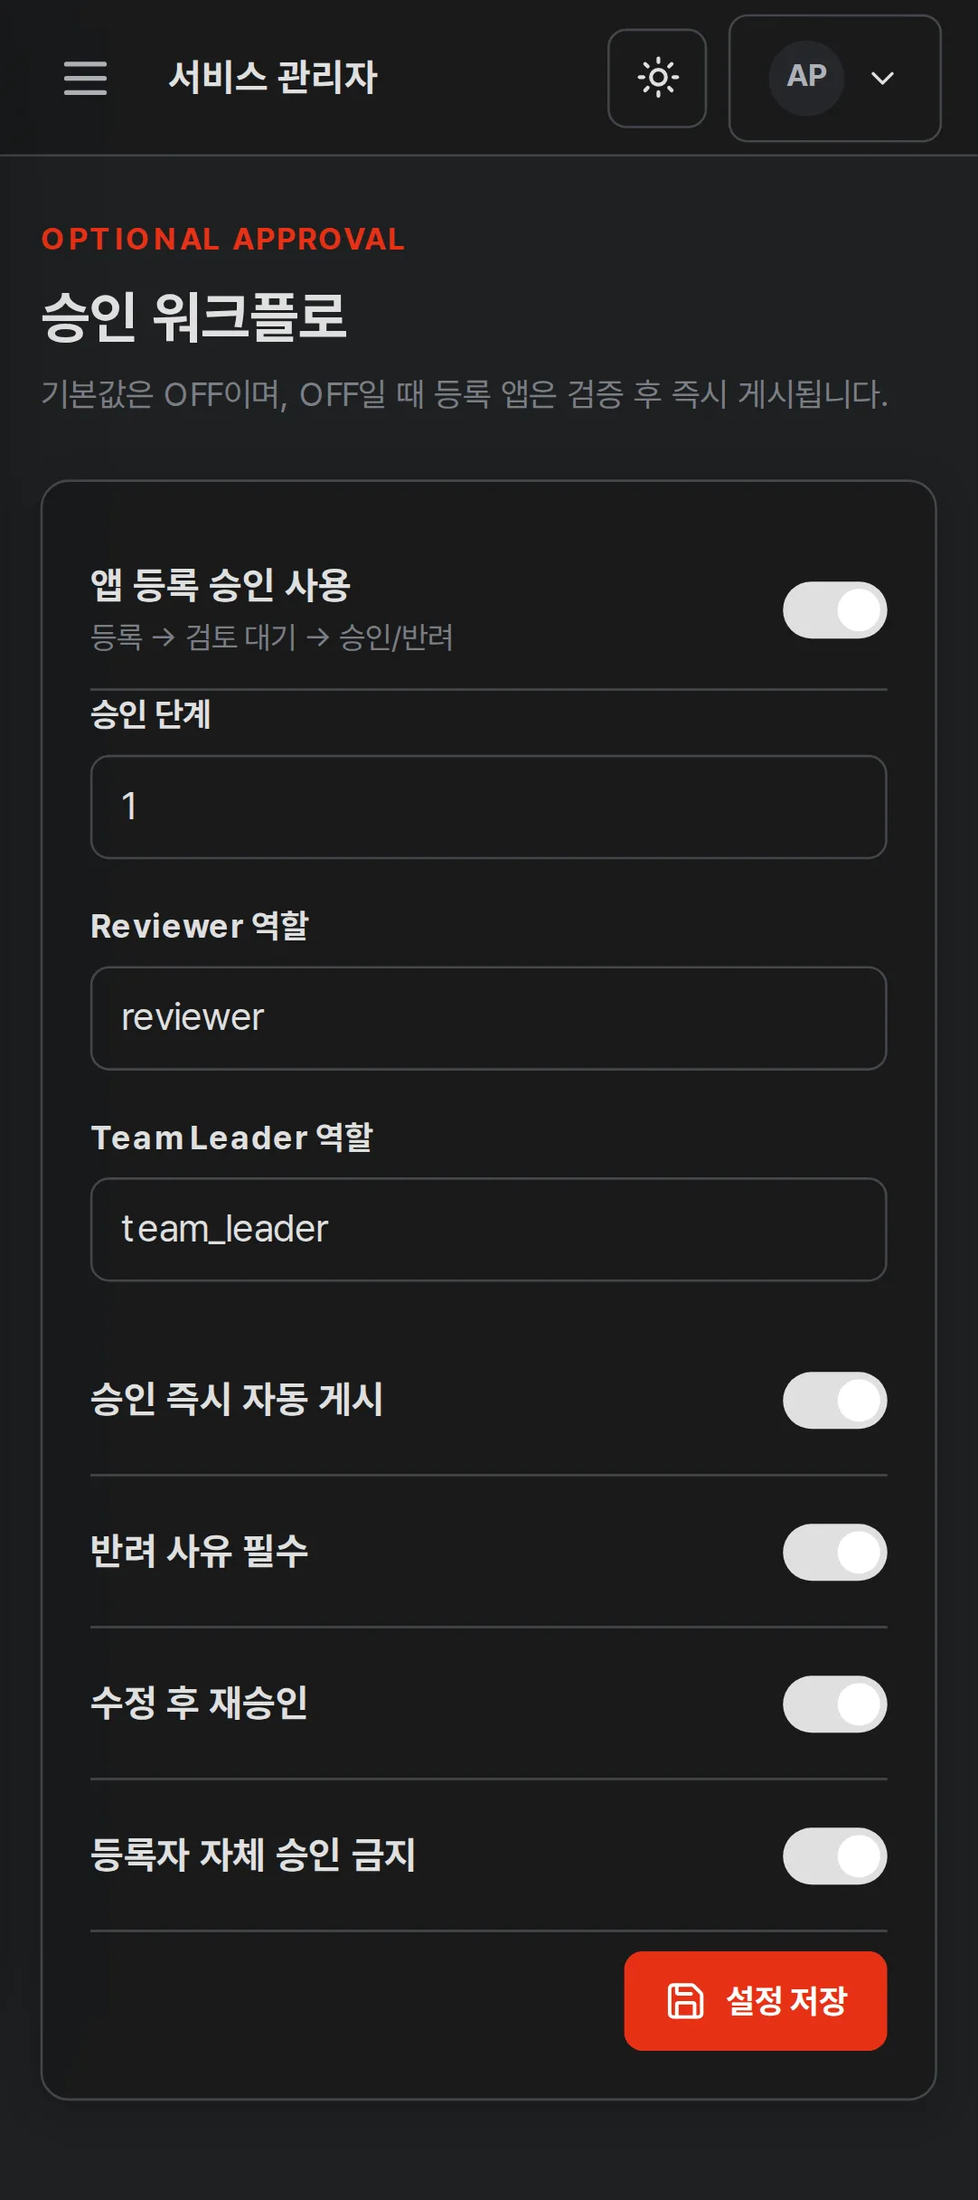
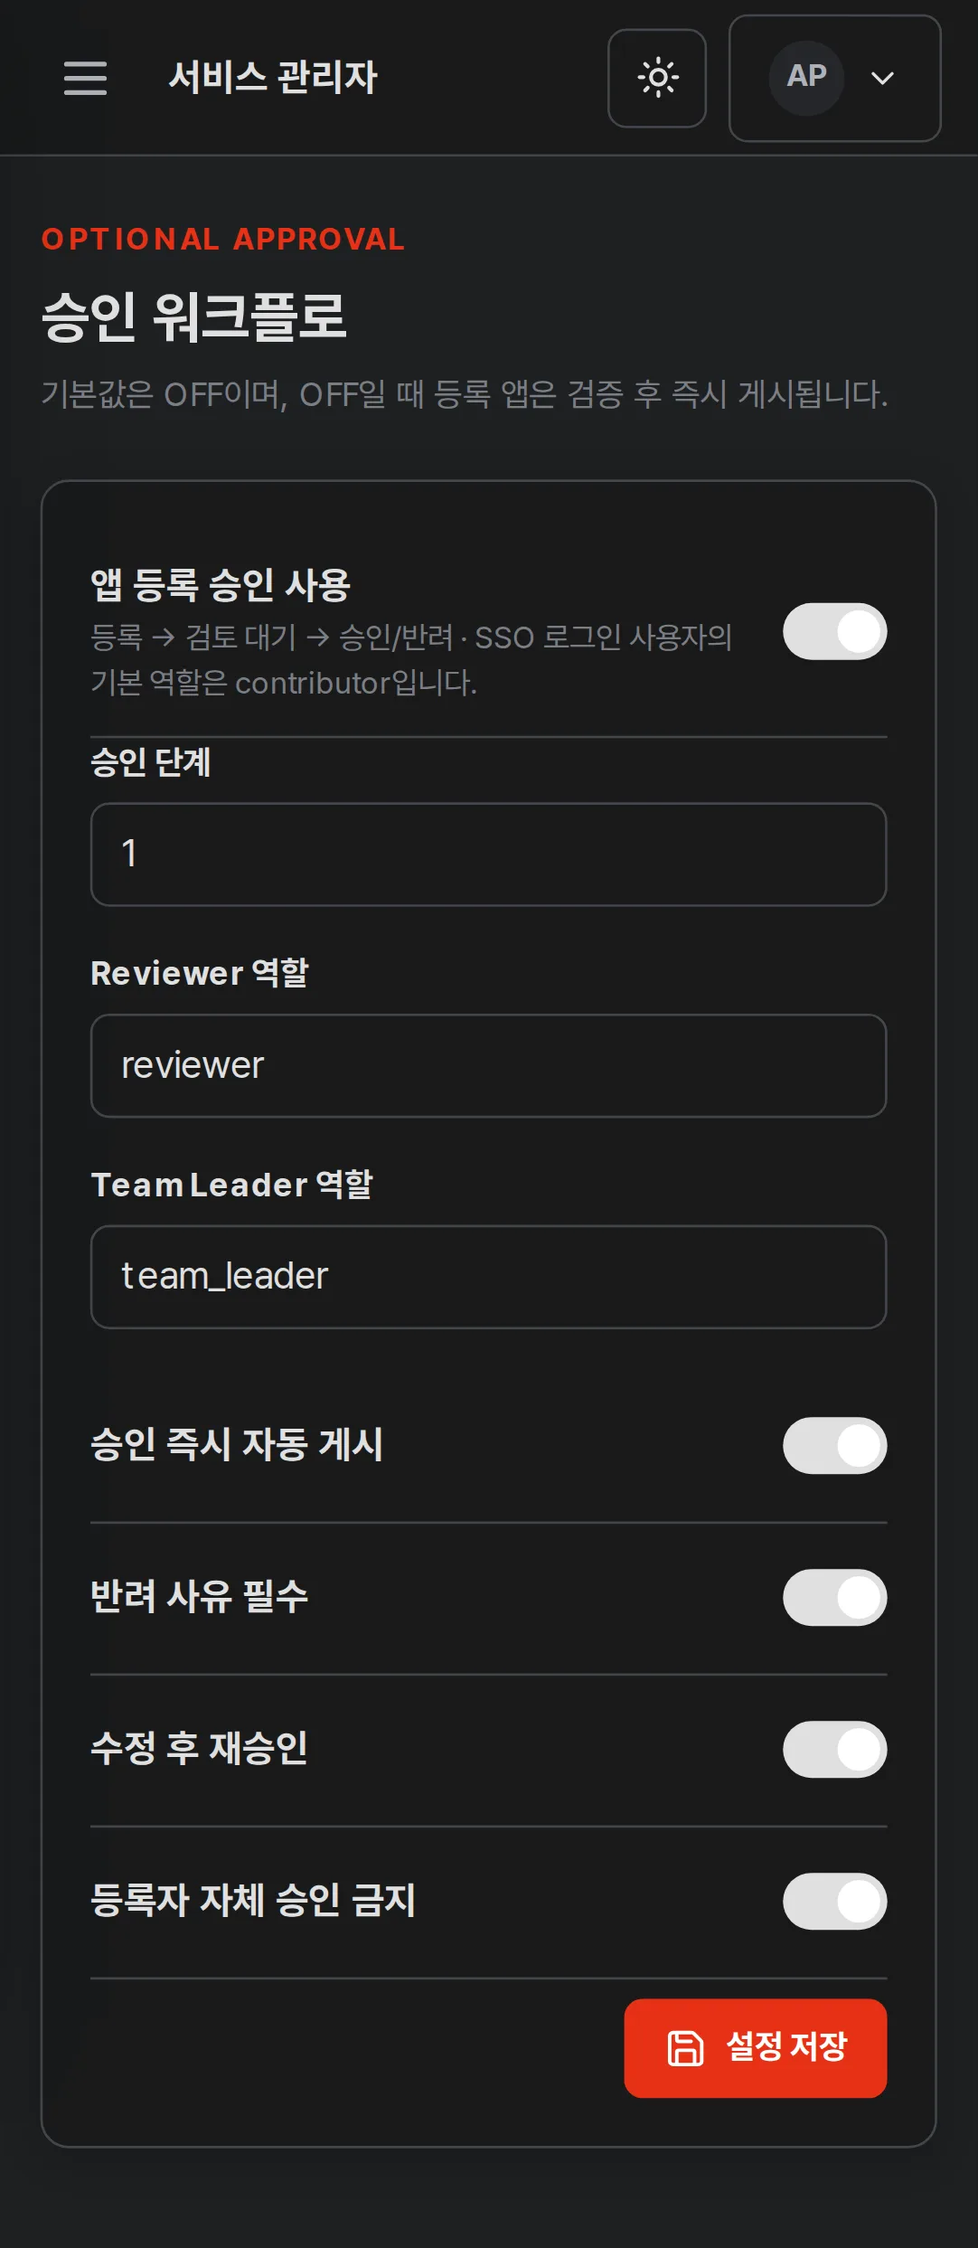
chore(release): AppStore v2.3.1
승인 Workflow가 켜져 있을 때 SSO 사용자 기본 역할을 contributor로 부여하는
patch 릴리스입니다.

Version

web/package.json, package-lock.json, docker-compose.yml, README와 GitHub
Pages 문서의 버전 표기를 v2.3.1로 올렸습니다.

Screenshots

Workflow 설정 화면의 안내 문구가 바뀌어 84개 캡처를 다시 생성하고
manifest의 version과 SHA-256을 갱신했습니다. 라우트 구성은 v2.3.0과 같아
항목 수는 84개 그대로입니다.

검증: go test 전체 패키지, go vet, gofmt, npm test, npm run lint,
prettier check, npm run build, Playwright desktop·mobile 35건,
check-offline-assets.sh, check-env-contract.sh, check-docs.sh 모두
통과했습니다.

diff --git a/docs/guides/release/index.html b/docs/guides/release/index.html
@@ -17,7 +17,7 @@
         <aside class="toc" aria-label="이 페이지 목차"><strong>목차</strong><a href="#contract">명명 계약</a><a href="#gates">릴리스 Gate</a><a href="#screenshots">화면 캡처</a><a href="#local">로컬 검증</a><a href="#tag">커밋·태그</a><a href="#workflow">자동 Workflow</a><a href="#verify">게시 후 검증</a><a href="#pages">Pages</a></aside>
         <article class="guide-content">
           <section id="contract"><h2>1. 불변 명명 계약</h2>
-            <div class="table-wrap"><table><thead><tr><th>항목</th><th>v2.3.0 릴리스</th><th>원천</th></tr></thead><tbody><tr><td>Git tag</td><td><code>v2.3.0</code></td><td>안정 SemVer</td></tr><tr><td>Docker image</td><td><code>appstore:v2.3.0</code></td><td>tag를 그대로 사용, v 재추가 금지</td></tr><tr><td>Release custom asset</td><td><code>appstore-v2.3.0.tar.gz</code></td><td><code>docker save | gzip</code></td></tr><tr><td>API/UI version</td><td><code>v2.3.0</code></td><td>Go ldflags</td></tr><tr><td>OCI version label</td><td><code>v2.3.0</code></td><td>Docker build arg</td></tr></tbody></table></div>
+            <div class="table-wrap"><table><thead><tr><th>항목</th><th>v2.3.1 릴리스</th><th>원천</th></tr></thead><tbody><tr><td>Git tag</td><td><code>v2.3.1</code></td><td>안정 SemVer</td></tr><tr><td>Docker image</td><td><code>appstore:v2.3.1</code></td><td>tag를 그대로 사용, v 재추가 금지</td></tr><tr><td>Release custom asset</td><td><code>appstore-v2.3.1.tar.gz</code></td><td><code>docker save | gzip</code></td></tr><tr><td>API/UI version</td><td><code>v2.3.1</code></td><td>Go ldflags</td></tr><tr><td>OCI version label</td><td><code>v2.3.1</code></td><td>Docker build arg</td></tr></tbody></table></div>
             <p>현재 단일 archive 계약은 Linux/AMD64를 대상으로 합니다. ARM64가 필요하면 같은 이름을 덮어쓰지 말고 먼저 architecture별 명명 정책을 승인받습니다.</p>
           </section>
           <section id="gates"><h2>2. 릴리스 Gate</h2>
@@ -25,23 +25,23 @@
             <div class="callout warning"><strong>금지:</strong> 빌드 성공만으로 tag를 만들지 않습니다. public, SSO, Admin, Key rotation, Workflow OFF/ON, streaming cancel과 route refresh를 화면에서 확인해야 합니다.</div>
           </section>
           <section id="screenshots"><h2>3. 전체 페이지 캡처 갱신</h2>
-            <p><code>docs/assets/screenshots/manifest.json</code>은 v2.3.0의 모든 React route에 대한 desktop·mobile 전체 페이지 WebP, 대체 텍스트, pixel 크기, 상태, 버전과 SHA-256을 기록합니다. 캡처는 Playwright의 deterministic fixture를 사용하며 <code>make screenshots VERSION=v2.3.0</code>으로 재현합니다.</p>
-            <ol><li>실제 사용자·Secret이 없는 demo seed와 고정 시각을 사용합니다.</li><li>로그인, submit, 개인 영역, review와 모든 admin route에 필요한 권한 세션을 준비합니다.</li><li>각 항목을 <code>fullPage: true</code>로 캡처해 PNG 원본을 만듭니다.</li><li><code>make screenshots VERSION=v2.3.0</code>으로 WebP를 게시하고 manifest의 status, version, 크기와 checksum을 갱신합니다.</li><li>OIDC·AI Secret, Key 원문, 실제 email, 실제 내부 hostname과 Request body가 보이지 않는지 검수합니다.</li><li>홍보 gallery에는 대표 화면, 사용자·관리자 가이드에는 해당 업무 화면을 배치합니다.</li></ol>
-            <p>v2.3.0 manifest의 84개 항목은 모두 <code>captured</code> 상태이며 실제 WebP와 SHA-256이 일치해야 문서 검사를 통과합니다.</p>
+            <p><code>docs/assets/screenshots/manifest.json</code>은 v2.3.1의 모든 React route에 대한 desktop·mobile 전체 페이지 WebP, 대체 텍스트, pixel 크기, 상태, 버전과 SHA-256을 기록합니다. 캡처는 Playwright의 deterministic fixture를 사용하며 <code>make screenshots VERSION=v2.3.1</code>으로 재현합니다.</p>
+            <ol><li>실제 사용자·Secret이 없는 demo seed와 고정 시각을 사용합니다.</li><li>로그인, submit, 개인 영역, review와 모든 admin route에 필요한 권한 세션을 준비합니다.</li><li>각 항목을 <code>fullPage: true</code>로 캡처해 PNG 원본을 만듭니다.</li><li><code>make screenshots VERSION=v2.3.1</code>으로 WebP를 게시하고 manifest의 status, version, 크기와 checksum을 갱신합니다.</li><li>OIDC·AI Secret, Key 원문, 실제 email, 실제 내부 hostname과 Request body가 보이지 않는지 검수합니다.</li><li>홍보 gallery에는 대표 화면, 사용자·관리자 가이드에는 해당 업무 화면을 배치합니다.</li></ol>
+            <p>v2.3.1 manifest의 84개 항목은 모두 <code>captured</code> 상태이며 실제 WebP와 SHA-256이 일치해야 문서 검사를 통과합니다.</p>
           </section>
           <section id="local"><h2>4. 로컬 release archive 검증</h2>
             <pre><code>make test
 make check
 make test-e2e
-make archive VERSION=v2.3.0
-make verify-archive VERSION=v2.3.0
-./scripts/smoke-image.sh appstore:v2.3.0</code></pre>
+make archive VERSION=v2.3.1
+make verify-archive VERSION=v2.3.1
+./scripts/smoke-image.sh appstore:v2.3.1</code></pre>
             <p><code>scripts/release-image.sh</code>는 tag 형식을 검사하고 image를 build한 뒤 <code>gzip -9n</code>으로 저장합니다. 검증 script는 Docker manifest의 RepoTag, OCI version label과 non-root user를 확인하고 archive를 다시 load합니다.</p>
           </section>
           <section id="tag"><h2>5. 최종 커밋, push와 tag</h2>
-            <ol class="steps"><li><strong>작업 트리를 검토합니다.</strong><br><code>git status --short</code>와 diff에서 secret, generated cache, 원격 runtime asset과 관계없는 사용자 변경이 섞이지 않았는지 확인합니다.</li><li><strong>최종 commit을 만듭니다.</strong><br>코드, migration, 문서와 실제 screenshot manifest가 같은 release 상태를 설명해야 합니다.</li><li><strong>main에 push합니다.</strong><br>CI와 Pages workflow가 성공할 때까지 tag를 만들지 않습니다.</li><li><strong>annotated tag를 만들고 push합니다.</strong><pre><code>git tag -a v2.3.0 -m "AppStore v2.3.0"
+            <ol class="steps"><li><strong>작업 트리를 검토합니다.</strong><br><code>git status --short</code>와 diff에서 secret, generated cache, 원격 runtime asset과 관계없는 사용자 변경이 섞이지 않았는지 확인합니다.</li><li><strong>최종 commit을 만듭니다.</strong><br>코드, migration, 문서와 실제 screenshot manifest가 같은 release 상태를 설명해야 합니다.</li><li><strong>main에 push합니다.</strong><br>CI와 Pages workflow가 성공할 때까지 tag를 만들지 않습니다.</li><li><strong>annotated tag를 만들고 push합니다.</strong><pre><code>git tag -a v2.3.1 -m "AppStore v2.3.1"
 git push origin main
-git push origin v2.3.0</code></pre></li></ol>
+git push origin v2.3.1</code></pre></li></ol>
             <p>Release workflow는 tag commit이 <code>origin/main</code>의 ancestor가 아니면 중단합니다. 이미 존재하는 GitHub Release를 덮어쓰지 않습니다.</p>
           </section>
           <section id="workflow"><h2>6. GitHub Release 자동화</h2>

diff --git a/docs/guides/offline/index.html b/docs/guides/offline/index.html
@@ -19,7 +19,7 @@
         <article class="guide-content">
           <section id="scope"><h2>1. 릴리스 포함 범위</h2>
             <div class="grid two"><article class="card"><h3>포함</h3><ul><li><code>appstore:vX.Y.Z</code> Linux/AMD64 image</li><li>React 정적 자산과 SPA fallback</li><li>Go API, OIDC, SSE와 MCP 서버</li><li>PostgreSQL migration과 초기 seed</li><li>공개 CA와 timezone database</li></ul></article><article class="card"><h3>미포함</h3><ul><li>PostgreSQL image와 데이터</li><li>Keycloak image와 realm</li><li>AI model 또는 provider image</li><li>reverse proxy, DNS와 조직 인증서</li><li>실제 운영 secret</li></ul></article></div>
-            <div class="callout"><strong>v2.3.0 파일 규칙:</strong> custom asset은 <code>appstore-v2.3.0.tar.gz</code>이고, load 후 image는 <code>appstore:v2.3.0</code>입니다.</div>
+            <div class="callout"><strong>v2.3.1 파일 규칙:</strong> custom asset은 <code>appstore-v2.3.1.tar.gz</code>이고, load 후 image는 <code>appstore:v2.3.1</code>입니다.</div>
           </section>
           <section id="prerequisites"><h2>2. 선행조건</h2>
             <ul><li>Linux/AMD64 Docker Engine과 서비스 운영 권한</li><li>접근 가능한 PostgreSQL database와 schema 변경 권한</li><li>container에서 PostgreSQL을 찾을 수 있는 내부 DNS·network</li><li>SSO 사용 시 폐쇄망 Keycloak Issuer와 TLS 신뢰 체계</li><li>AI 사용 시 폐쇄망 OpenAI-compatible, vLLM, Ollama 또는 Custom endpoint</li><li>조직 reverse proxy, HTTPS 인증서와 서비스 FQDN</li></ul>
@@ -27,15 +27,15 @@
           </section>
           <section id="transfer"><h2>3. archive 반입과 검증</h2>
             <ol class="steps">
-              <li><strong>온라인 구간에서 custom asset을 받습니다.</strong><br><code>appstore-v2.3.0.tar.gz</code>로 표기됩니다. GitHub의 자동 Source code archive와 혼동하지 않습니다.</li>
-              <li><strong>릴리스 본문의 SHA-256과 비교합니다.</strong><pre><code>sha256sum appstore-v2.3.0.tar.gz</code></pre></li>
+              <li><strong>온라인 구간에서 custom asset을 받습니다.</strong><br><code>appstore-v2.3.1.tar.gz</code>로 표기됩니다. GitHub의 자동 Source code archive와 혼동하지 않습니다.</li>
+              <li><strong>릴리스 본문의 SHA-256과 비교합니다.</strong><pre><code>sha256sum appstore-v2.3.1.tar.gz</code></pre></li>
               <li><strong>승인된 매체로 폐쇄망에 반입합니다.</strong><br>조직의 악성코드 검사, 반입 결재와 매체 폐기 정책을 따릅니다.</li>
-              <li><strong>gzip과 Docker manifest를 확인하고 load합니다.</strong><pre><code>gzip -t appstore-v2.3.0.tar.gz
-gzip -dc appstore-v2.3.0.tar.gz | docker load
-docker image inspect appstore:v2.3.0 \
+              <li><strong>gzip과 Docker manifest를 확인하고 load합니다.</strong><pre><code>gzip -t appstore-v2.3.1.tar.gz
+gzip -dc appstore-v2.3.1.tar.gz | docker load
+docker image inspect appstore:v2.3.1 \
   --format '{{.RepoTags}} user={{.Config.User}} version={{index .Config.Labels "org.opencontainers.image.version"}}'</code></pre></li>
             </ol>
-            <p>검사 결과에는 <code>appstore:v2.3.0</code>, non-root 사용자 <code>appstore:appstore</code>, 동일한 OCI version label이 보여야 합니다.</p>
+            <p>검사 결과에는 <code>appstore:v2.3.1</code>, non-root 사용자 <code>appstore:appstore</code>, 동일한 OCI version label이 보여야 합니다.</p>
           </section>
           <section id="environment"><h2>4. 네 환경변수 준비</h2>
             <p>예제 파일을 복사하고 권한을 제한합니다. 다음 네 이름 외의 서비스 설정은 환경변수로 전달하지 않습니다.</p>
@@ -60,7 +60,7 @@ ENCRYPTION_KEY=replace-with-the-generated-32-byte-base64-value</code></pre>
   --security-opt no-new-privileges:true \
   --env-file ./appstore.env \
   -p 127.0.0.1:8080:8080 \
-  appstore:v2.3.0</code></pre>
+  appstore:v2.3.1</code></pre>
             <p>외부 공개가 필요하면 reverse proxy가 <code>127.0.0.1:8080</code>에 연결하도록 구성합니다. Go 서버의 내부 listen port는 8080으로 고정됩니다.</p>
             <pre><code>docker logs --tail 100 appstore
 curl --fail http://127.0.0.1:8080/health/live
@@ -72,7 +72,7 @@ curl --fail http://127.0.0.1:8080/api/version</code></pre>
             <p><code>docker-compose.yml</code>은 PostgreSQL을 번들하지 않고 외부 DSN을 사용합니다. <code>APPSTORE_VERSION</code>은 Compose가 image tag를 고르는 host-side 치환 값이며 application container에는 전달되지 않습니다.</p>
             <pre><code>cp .env.example .env
 chmod 600 .env
-APPSTORE_VERSION=v2.3.0 docker compose up -d --no-build
+APPSTORE_VERSION=v2.3.1 docker compose up -d --no-build
 docker compose ps
 docker compose logs --tail 100 appstore</code></pre>
             <p><code>--no-build</code>는 registry나 build dependency를 찾지 않고 이미 load한 image만 사용하도록 보장합니다. Application 환경에는 승인된 네 값만 전달됩니다.</p>

diff --git a/docs/index.html b/docs/index.html
@@ -147,8 +147,8 @@
           </div>
         </div>
         <figure class="hero-visual">
-          <a href="./assets/screenshots/captures/today-desktop.webp" aria-label="AppStore Today 전체 화면 WebP 열기"><img class="capture-preview" src="./assets/screenshots/captures/today-desktop.webp" width="1440" height="1496" alt="추천 배너, 검색, 카테고리와 앱 카드로 구성된 AppStore v2.3.0 공개 카탈로그" fetchpriority="high" decoding="async"></a>
-          <figcaption>v2.3.0 실제 UI · 비식별 데이터로 생성한 desktop 전체 페이지 캡처</figcaption>
+          <a href="./assets/screenshots/captures/today-desktop.webp" aria-label="AppStore Today 전체 화면 WebP 열기"><img class="capture-preview" src="./assets/screenshots/captures/today-desktop.webp" width="1440" height="1496" alt="추천 배너, 검색, 카테고리와 앱 카드로 구성된 AppStore v2.3.1 공개 카탈로그" fetchpriority="high" decoding="async"></a>
+          <figcaption>v2.3.1 실제 UI · 비식별 데이터로 생성한 desktop 전체 페이지 캡처</figcaption>
         </figure>
       </section>
 
@@ -203,14 +203,14 @@
             </ul>
           </article>
         </div>
-        <div class="callout success" style="margin-top: 1rem"><strong>v2.3.0 릴리스:</strong> 이미지 이름은 <code>appstore:v2.3.0</code>, 반입 파일은 <code>appstore-v2.3.0.tar.gz</code>입니다. 이후 버전도 같은 <code>vX.Y.Z</code> 규칙을 따릅니다.</div>
+        <div class="callout success" style="margin-top: 1rem"><strong>v2.3.1 릴리스:</strong> 이미지 이름은 <code>appstore:v2.3.1</code>, 반입 파일은 <code>appstore-v2.3.1.tar.gz</code>입니다. 이후 버전도 같은 <code>vX.Y.Z</code> 규칙을 따릅니다.</div>
       </section>
 
       <section class="section" id="screens" aria-labelledby="screens-title">
         <div class="section-heading">
           <span class="pill">제품 화면</span>
           <h2 id="screens-title">사용자와 관리자의 맥락을 분리</h2>
-          <p>모든 이미지는 v2.3.0 실제 React 화면을 Playwright의 비식별 fixture로 캡처한 WebP입니다. 이미지를 선택하면 잘리지 않은 전체 페이지를 확인할 수 있습니다.</p>
+          <p>모든 이미지는 v2.3.1 실제 React 화면을 Playwright의 비식별 fixture로 캡처한 WebP입니다. 이미지를 선택하면 잘리지 않은 전체 페이지를 확인할 수 있습니다.</p>
         </div>
         <div class="gallery">
           <figure class="shot"><a href="./assets/screenshots/captures/apps-desktop.webp" aria-label="공개 앱 카탈로그 전체 화면 열기"><img class="capture-preview" src="./assets/screenshots/captures/apps-desktop.webp" width="1440" height="1000" decoding="async" alt="검색과 정렬 상태가 적용된 AppStore 공개 앱 카탈로그 전체 화면"></a><figcaption>Public · 로그인 없는 탐색과 URL 기반 검색 상태</figcaption></figure>

diff --git a/docs/guides/upgrade/index.html b/docs/guides/upgrade/index.html
@@ -28,16 +28,16 @@ sha256sum "appstore-$backup_stamp.dump"</code></pre>
             <p>백업 복원 시험이 최근 수행되지 않았다면 production 교체 전에 별도 database로 restore를 시험합니다. 자세한 내용은 <a href="../backup/">백업·복구 가이드</a>를 따릅니다.</p>
           </section>
           <section id="load"><h2>3. 새 image 검증과 load</h2>
-            <pre><code>sha256sum appstore-v2.3.0.tar.gz
-gzip -t appstore-v2.3.0.tar.gz
-gzip -dc appstore-v2.3.0.tar.gz | docker load
-docker image inspect appstore:v2.3.0 \
+            <pre><code>sha256sum appstore-v2.3.1.tar.gz
+gzip -t appstore-v2.3.1.tar.gz
+gzip -dc appstore-v2.3.1.tar.gz | docker load
+docker image inspect appstore:v2.3.1 \
   --format 'user={{.Config.User}} version={{index .Config.Labels "org.opencontainers.image.version"}} revision={{index .Config.Labels "org.opencontainers.image.revision"}}'</code></pre>
             <p>version이 archive 이름과 다르거나 user가 root이면 배포하지 않습니다. 기존 image tag는 검증이 끝날 때까지 삭제하지 않습니다.</p>
           </section>
           <section id="switch"><h2>4. 서비스 교체</h2>
             <h3>Compose 사용</h3>
-            <pre><code>APPSTORE_VERSION=v2.3.0 docker compose up -d --no-build
+            <pre><code>APPSTORE_VERSION=v2.3.1 docker compose up -d --no-build
 docker compose ps
 docker compose logs --tail 200 appstore</code></pre>
             <h3>docker run 사용</h3>
@@ -48,7 +48,7 @@ docker run -d --name appstore --restart unless-stopped \
   --read-only --tmpfs /tmp:size=64m,mode=1777 \
   --cap-drop ALL --security-opt no-new-privileges:true \
   --env-file ./appstore.env -p 127.0.0.1:8080:8080 \
-  appstore:v2.3.0</code></pre>
+  appstore:v2.3.1</code></pre>
             <p>단일 database를 여러 버전이 동시에 migration하지 않도록 새 container가 ready가 된 후 traffic을 전환합니다. 여러 replica를 운영하면 한 instance만 먼저 올려 migration을 완료한 뒤 나머지를 교체합니다.</p>
           </section>
           <section id="verify"><h2>5. 업그레이드 후 검증</h2>

diff --git a/docs/guides/user/index.html b/docs/guides/user/index.html
@@ -57,7 +57,7 @@
               <li><strong>앱 카드를 엽니다.</strong><br>설명, 버전, 기술 정보, API·MCP 지원 여부와 관리자가 승인한 서비스 접속 URL을 확인합니다.</li>
               <li><strong>즐겨찾기를 선택합니다.</strong><br>비로그인 즐겨찾기는 현재 브라우저의 Local Storage에 보관되므로 브라우저 데이터를 삭제하면 함께 사라집니다.</li>
             </ol>
-            <figure class="shot"><a href="../../assets/screenshots/captures/apps-desktop.webp" aria-label="공개 앱 카탈로그 전체 화면 열기"><img class="capture-preview" src="../../assets/screenshots/captures/apps-desktop.webp" width="1440" height="1000" decoding="async" alt="검색어와 정렬 상태가 URL에 유지된 공개 앱 카탈로그 전체 화면"></a><figcaption>v2.3.0 실제 화면입니다. 새로고침해도 URL의 검색 상태가 유지됩니다.</figcaption></figure>
+            <figure class="shot"><a href="../../assets/screenshots/captures/apps-desktop.webp" aria-label="공개 앱 카탈로그 전체 화면 열기"><img class="capture-preview" src="../../assets/screenshots/captures/apps-desktop.webp" width="1440" height="1000" decoding="async" alt="검색어와 정렬 상태가 URL에 유지된 공개 앱 카탈로그 전체 화면"></a><figcaption>v2.3.1 실제 화면입니다. 새로고침해도 URL의 검색 상태가 유지됩니다.</figcaption></figure>
           </section>
 
           <section id="signin"><h2>3. SSO 로그인</h2>
